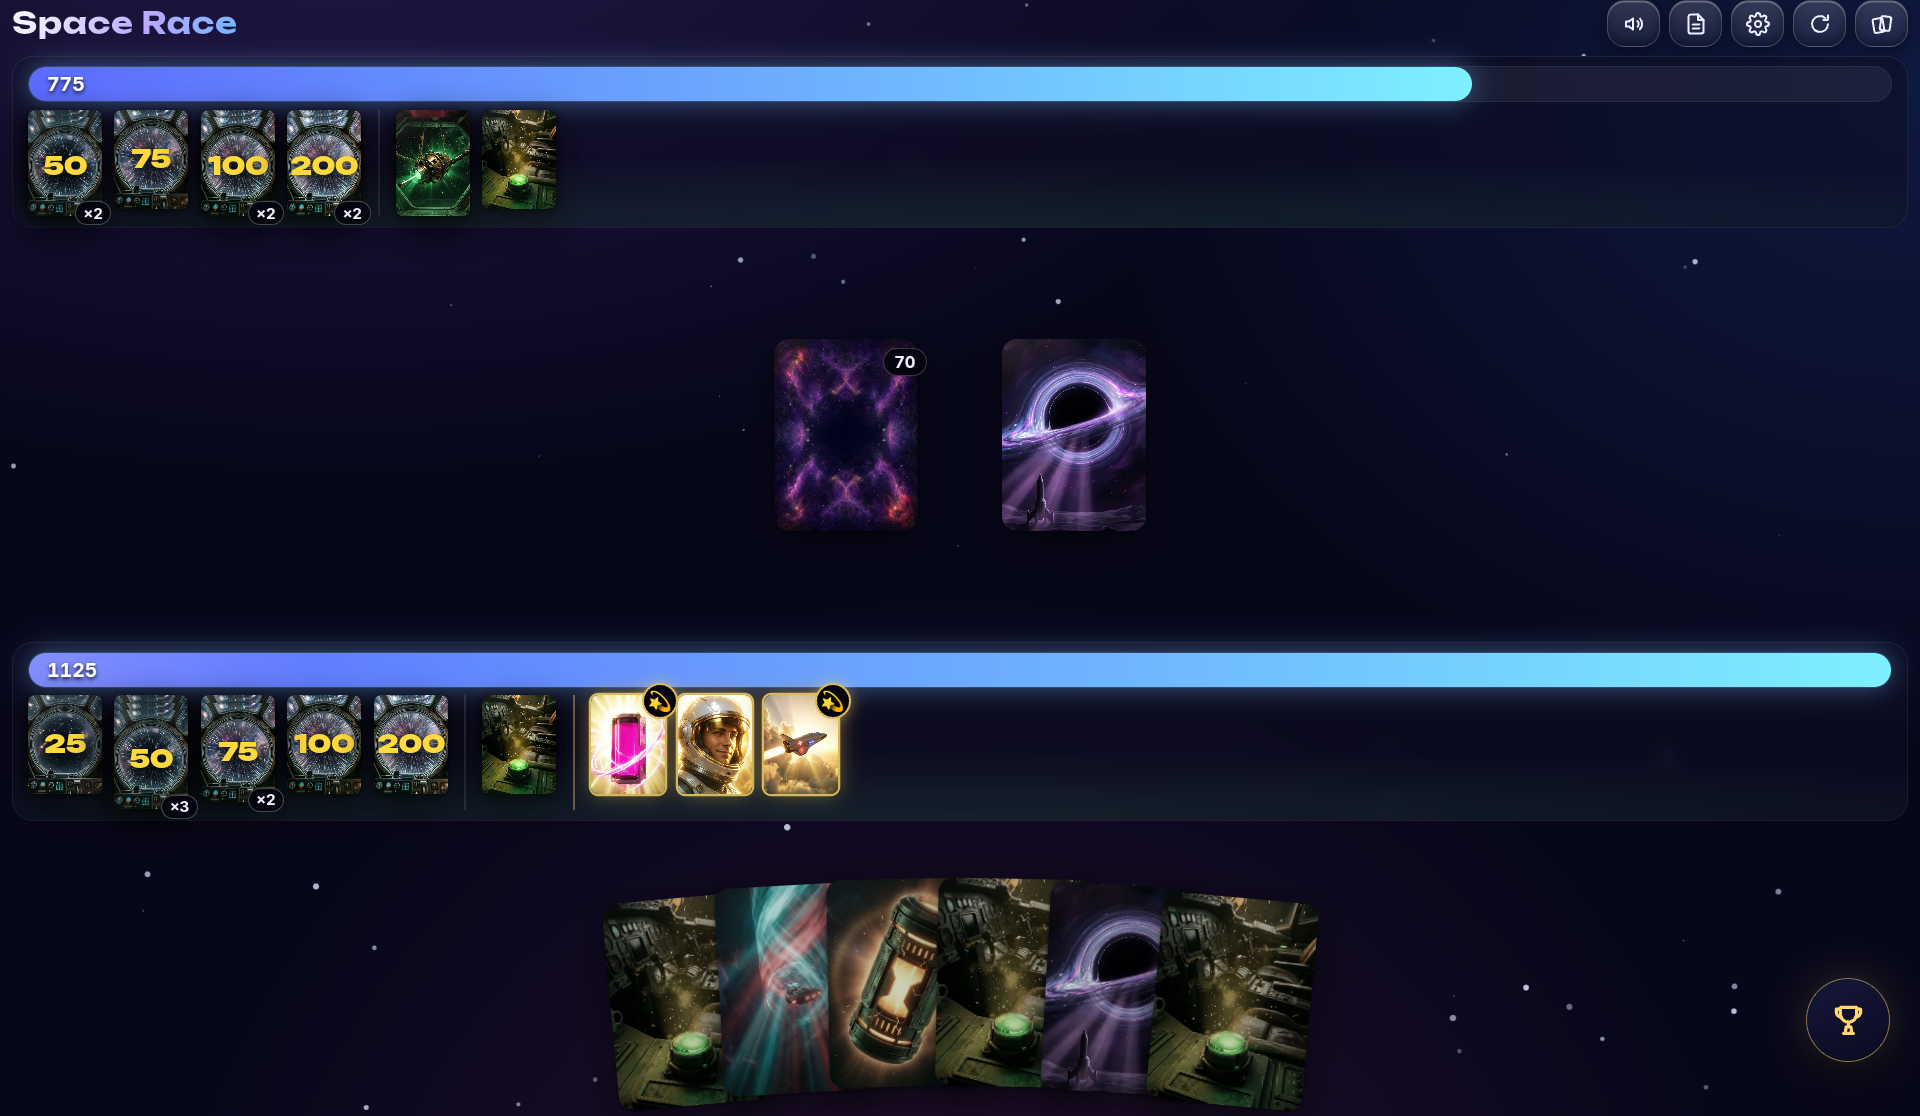
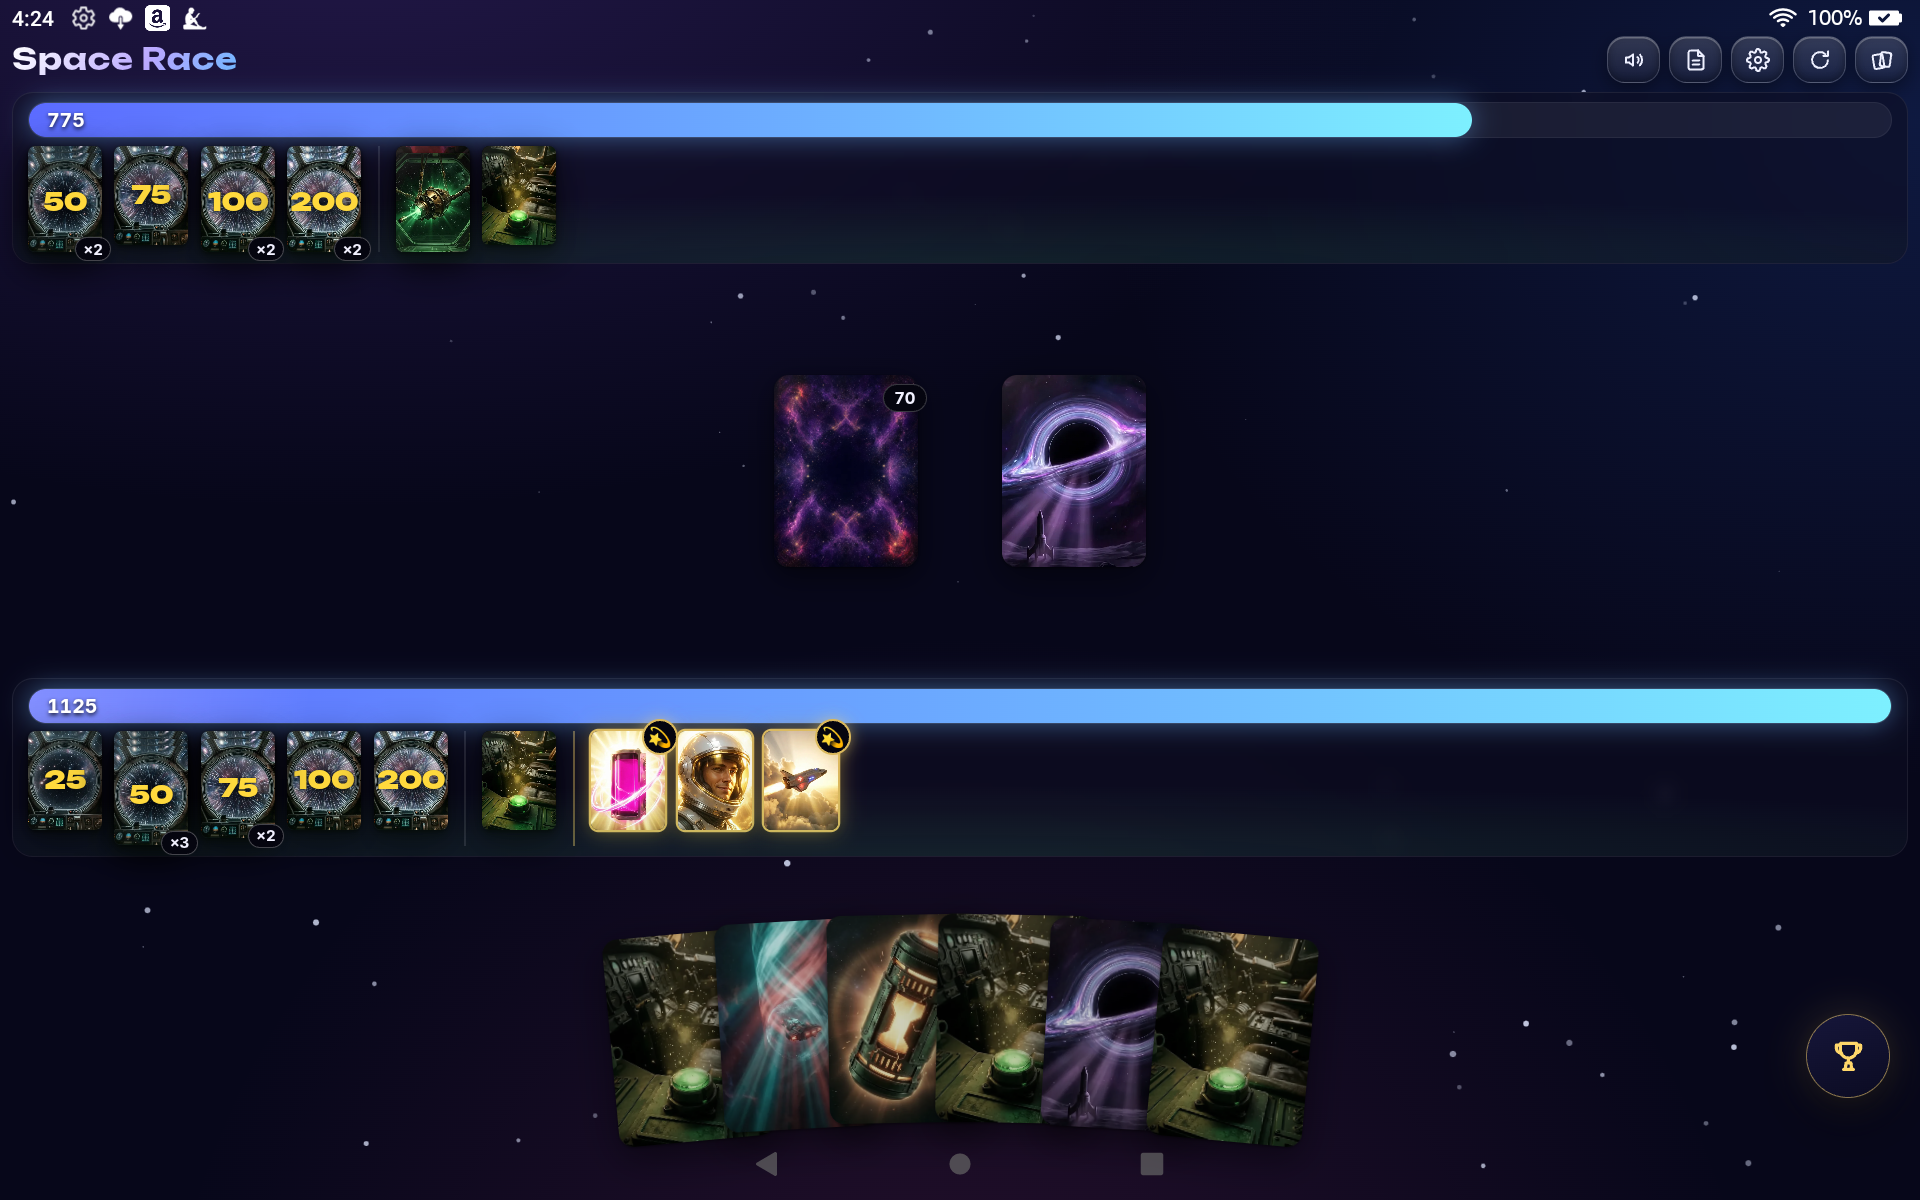
docs(amazon): fold the real submission back into the listing doc
Everything here was learned by actually driving the console, and every one of
these would have cost a rejection or a silent no-op:

- Screenshot sizes are an EXACT whitelist, not a range. Cropping the Fire OS
  system bars off gave 1920x1116 — prettier, and not on the list. Ship the
  tablet's native 1920x1200 uncropped.
- The 114x114 icon must carry a real alpha channel. An opaque RGB PNG is
  silently ignored: the file lands in the <input>, the dropzone stays empty, no
  error. The 512 icon accepts the same opaque PNG happily.
- Keywords split on whitespace as well as commas, so "no ads" becomes the
  useless pair `no` + `ads`. Single words only.
- DRM defaults to Yes. Answer No: nothing to protect on a free app, and an
  entitlement check is the last thing an offline-first kids' game needs.
- Target audience: "All age groups", not "Restricted" 0-12 — still triggers the
  child-directed certification without pretending adults do not play it.
- The title is "Space Race: 1000 Light Years", matching the App Store, not the
  bare "Space Race" the doc previously called primary.
- Do not supply the privacy policy URL until the policy agrees with the data
  declaration. Ours said "Google Analytics ... (web or iOS)" while we declared
  "collects no data"; it was fixed and deployed first.

diff --git a/docs/amazon-appstore/listing.md b/docs/amazon-appstore/listing.md
@@ -29,14 +29,26 @@ also spares us Amazon's separate Fire TV asset set.
 | **Binary** | `web/android/app/build/outputs/apk/release/app-release.apk` |
 | **Build command** | `npm run amazon:release` (= `./scripts/android-release.sh --amazon`) |
 | **Package name** | `tech.spaceexplorer.spacerace` (same as Play/iOS) |
-| **Version** | `versionName 1.2.0` / `versionCode 14` |
-| **Approx. size** | ~85 MB |
+| **Version** | `versionName 1.2.1` / `versionCode 15` |
+| **Approx. size** | ~84 MB |
+| **Allow Amazon to apply DRM?** | **No** |
+
+**On DRM** (the console defaults this to *Yes*): our binary does not integrate
+the Appstore SDK, and the console says so with a warning. There is nothing to
+protect — the app is free with no IAP — and Amazon's DRM adds an entitlement
+check to a game whose entire pitch is that it works with no connection, on a
+tablet a parent may hand to a child on a plane. Answer **No**.
+
+Amazon also warns that binaries over 50 MB see higher install-abandonment. Noted
+and accepted: we already took this from 214 MB to 84 MB (HEVC + the splash
+rework), and going further means cutting the hero video that makes the game
+worth looking at.
 
 Notes:
 
 - **Binary limit is 2.5 GB**, uploaded through the browser. The old
   "150 MB then SFTP" rule is gone — SFTP is no longer supported at all. Our
-  ~85 MB is a non-issue, and Play's 200 MB base-module limit does not apply here.
+  ~84 MB is a non-issue, and Play's 200 MB base-module limit does not apply here.
 - **APK, not AAB.** Amazon accepts app bundles, but the APK is the well-trodden
   path and Amazon re-signs APKs with its own key on ingest, so our upload key is
   not load-bearing the way Play's is.
@@ -76,9 +88,14 @@ Notes:
 
 | Question | Answer |
 |----------|--------|
-| **Target age groups** | **Includes children (0–12)** — an all-ages card game |
-| Triggers Child-Directed App (COPPA) Policy? | **Yes, intentionally** |
+| **Target audience** | **All age groups** — which checks 0–12, 13–15, 16–17 and 18+ |
+| Triggers Child-Directed App (COPPA) Policy? | **Yes, intentionally** — the console shows the certification warning |
 | Age gate / neutral age screen needed? | **No** — a gate exists to keep non-compliant SDKs away from children's data, and this build has no SDKs and collects no data |
+
+The console offers "All age groups" or "Restricted age groups". Take **All age
+groups**: restricting to 0–12 alone would misrepresent an all-ages game as
+children-only and hide it from adult browse, while still including 0–12 is what
+triggers the child-directed certification we want to be held to.
 
 We take the strictest audience declaration because it costs us nothing: with
 analytics stripped, there is no data-collection surface to defend.
@@ -115,7 +132,7 @@ This is where the Amazon build diverges from iOS and Play, and it diverges
 | Data types collected | **None** |
 | Advertising ID | Not used |
 | Third-party SDKs collecting data | **None** |
-| **Privacy policy URL** | https://game.spaceexplorer.tech/privacy.html |
+| **Privacy policy URL** | https://game.spaceexplorer.tech/privacy.html (https, not http) |
 
 Justification, so this survives a reviewer poking at it: the app is fully
 offline-bundled, has no accounts, no ads, no IAP, no advertising ID, and makes
@@ -129,6 +146,13 @@ because Capacitor serves the bundle from a local `https://localhost` origin.
 Supply the privacy policy URL anyway even though "collects no data" makes it
 optional — it costs nothing and reviewers like seeing it.
 
+**But only after the policy actually says so.** The live policy used to read
+"the game uses Google Analytics ... (web or iOS)", which both predated the
+Android ship AND flatly contradicted the "collects no data" declaration above.
+Handing a reviewer a policy that contradicts your own declaration is worse than
+supplying no URL at all. `web/public/privacy.html` now splits analytics by
+store; it was updated and deployed to production before this field was filled.
+
 ---
 
 ## Step 3 — Appstore details
@@ -136,10 +160,13 @@ optional — it costs nothing and reviewers like seeing it.
 ### Display title
 
 ```
-Space Race
+Space Race: 1000 Light Years
 ```
 
-Fallback if taken: `Space Race: 1000 Light-Years`
+**Not** the bare "Space Race". The long form is what the **App Store** already
+ships (`apps.apple.com/us/app/space-race-1000-light-years`), it reads better in
+search, and it avoids collision with the several generic "Space Race" apps.
+Amazon allows 200 characters, so length is not a constraint.
 
 ### Short description (2,000 bytes ≈ 1,200 chars — no paragraph breaks, they get stripped)
 
@@ -192,8 +219,12 @@ Built and tested on Fire tablets, in both portrait and landscape.
 
 ### Keywords (comma-separated, optional)
 
+**Single words only.** The field's own hint is "use a comma **or white space** to
+separate your terms", so a multi-word phrase is split on the space — "no ads"
+becomes the useless pair `no` + `ads`, and "card game" becomes `card` + `game`.
+
 ```
-card game, space, offline, family, kids, solitaire, strategy, rocket, planets, no ads, single player
+cards, space, offline, family, kids, strategy, rocket, planets, spaceship, galaxy, singleplayer, adfree, travel, race
 ```
 
 ### Category
@@ -212,9 +243,27 @@ card game, space, offline, family, kids, solitaire, strategy, rocket, planets, n
 
 | Asset | Spec | Source / action |
 |-------|------|-----------------|
-| **Small icon** | 114 × 114 PNG | ✅ `docs/amazon-appstore/small-icon-114.png` — downscaled from the 512 |
+| **Small icon** | 114 × 114 PNG **with an alpha channel** | ✅ `docs/amazon-appstore/small-icon-114-rgba.png` |
 | **Large icon** | 512 × 512 PNG | ✅ `docs/play-store/assets/play-icon-512.png` verbatim |
-| **Screenshots** | 3–10, PNG/JPG, each side within **800×480 – 2560×1600** | ✅ `docs/amazon-appstore/screenshots/01`–`06` — **shot on the Fire HD 10**, 1920×1116 each |
+| **Screenshots** | 3–10, PNG/JPG, **one of seven exact sizes** (below) | ✅ `docs/amazon-appstore/screenshots/01`–`06`.jpg — **shot on the Fire HD 10**, 1920×1200 |
+
+> **⚠ Screenshot sizes are an exact whitelist, not a range.** Amazon accepts
+> only **800×480 · 1024×600 · 1280×720 · 1280×800 · 1920×1080 · 1920×1200 ·
+> 2560×1600**. An earlier pass cropped the Fire OS status and navigation bars
+> off, producing 1920×1116 — which looks nicer but is **not on the list and
+> would be rejected**. Ship the tablet's native **1920×1200** frames uncropped:
+> the system bars are a fair price for guaranteed acceptance, and no resampling
+> or content is lost. (Cropping then rescaling to 1920×1200 clips the ends of
+> the distance bars, so it is not a fix.)
+>
+> **The 114×114 icon must actually carry an alpha channel.** An opaque RGB PNG
+> is silently ignored — the file lands in the `<input>` but the dropzone stays
+> empty with no error. `magick … -alpha set -define png:color-type=6` fixes it.
+> The 512 icon has no such problem, which makes the failure look arbitrary.
+>
+> **Uploading via automation:** set one file input at a time. Firing several in
+> one batch leaves the files on the inputs while the page's handlers process
+> none of them — again with no error shown.
 | **Promotional image** | 1024 × 500 PNG/JPG (optional but take it) | ✅ `docs/play-store/assets/feature-graphic.png` verbatim — already exactly 1024×500 |
 | **Video** | 720 × 1080, optional | Skip for v1 |
 | **Fire TV assets** | 1280×720 icon, 1920×1080 shots + background | **Not needed** — Fire TV is unchecked |
@@ -316,12 +365,12 @@ Source: https://developer.amazon.com/docs/app-submission/user-age-verification.h
 2. [ ] **Build the Amazon binary:** `cd web && npm run amazon:release`.
 3. [x] **Capture 3+ Fire HD 10 screenshots** → 6 landscape shots, 1920×1116.
 4. [x] **Generate the 114×114 small icon** from the 512.
-5. [ ] **Create the app** in the Developer Console and upload the APK.
-6. [ ] **Target:** Fire tablets only, all countries, free, **target audience
+5. [x] **Create the app** in the Developer Console and upload the APK.
+6. [x] **Target:** Fire tablets only, all countries, free, **target audience
    includes children (0–12)**.
-7. [ ] **Content rating** questionnaire → expect *All Ages*.
-8. [ ] **Privacy labels:** collects no data. Privacy policy URL supplied.
-9. [ ] **Appstore details:** title, descriptions, bullets, keywords, category,
+7. [x] **Content rating** questionnaire → expect *All Ages*.
+8. [x] **Privacy labels:** collects no data. Privacy policy URL supplied.
+9. [x] **Appstore details:** title, descriptions, bullets, keywords, category,
    contact, icons, screenshots, 1024×500 promotional image.
 10. [ ] **Submit for review.**
 11. [ ] **After it goes live:** add it to a child profile in the Amazon Kids
